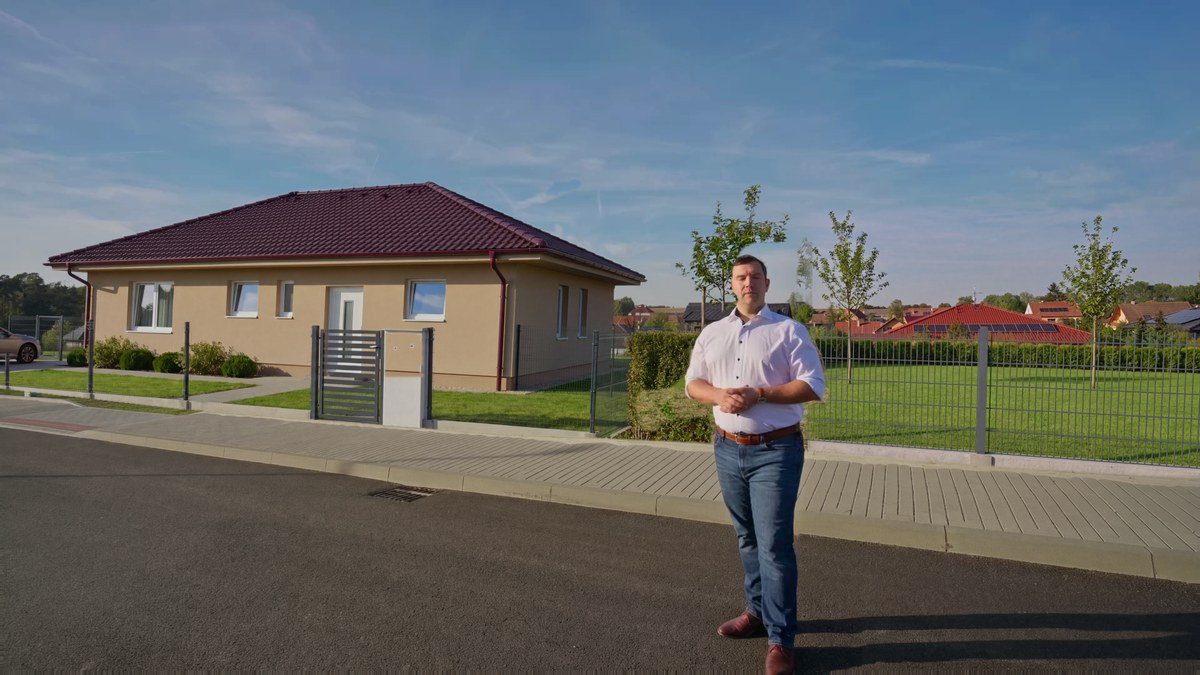
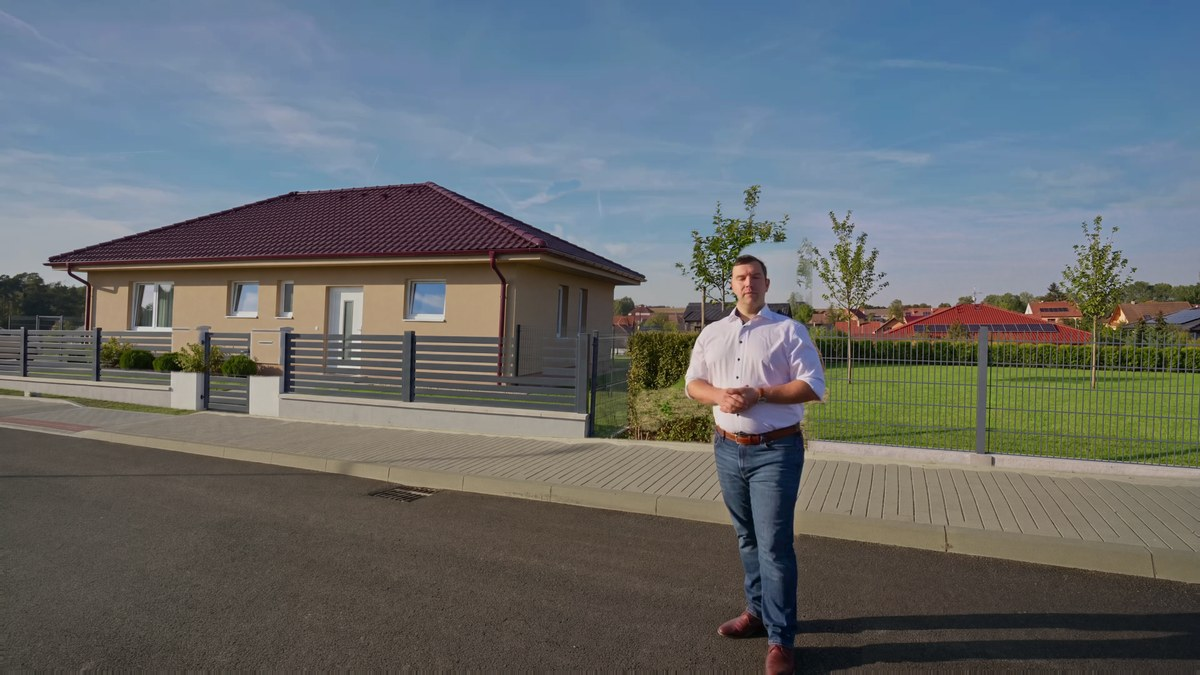
Záběr 61 A: viditelný lamelový plot u chodníku

Changed region(s): [[0.0, 0.4667, 0.5858, 0.6533]]

diff --git a/app.js b/app.js
@@ -6,7 +6,7 @@ const TOPICS = [
     before: 'Výchozí záběr', img: o => `img/z17-${o}` },
   { id: 'z61', title: 'Druhý dům se zahradou', eyebrow: 'ZÁBĚR 61 · VELKÝ DŮM SO01',
     description: 'Velký dům pro kontrast, rovný vjezd ke stání vedle domu, sousední zahrady s ploty. Barevnost: varianta 8 Hřejivá vínová.',
-    options: [{ id: 'A', label: 'Varianta A · plot u chodníku' }, { id: 'B', label: 'Varianta B · předzahrádka, brány v úrovni fasády' }],
+    options: [{ id: 'A', label: 'Varianta A · lamelový plot u chodníku' }, { id: 'B', label: 'Varianta B · předzahrádka, brány v úrovni fasády' }],
     before: 'Výchozí záběr', img: o => `img/z61-${o}` },
   { id: 'v01', title: 'Zahrady · barevnost domů', eyebrow: 'CELKOVÝ POHLED · DOMY 17–22',
     description: 'Domy, které prodáváte, v barevných variantách architekta (bez modré a zelené ve verzích A a B), mírně posunuté cik-cak ±0,5 m. Parcely na pravé straně jako bílá hmota.',
@@ -20,7 +20,7 @@ const el = (tag, cls, text) => { const e = document.createElement(tag); if (cls)
 const state = { opt: {}, before: {}, picks: {}, cards: {} };
 function load() { try { state.picks = JSON.parse(localStorage.getItem(KEY) || '{}') || {}; } catch { state.picks = {}; } }
 function save() { try { localStorage.setItem(KEY, JSON.stringify(state.picks)); } catch { /* bez úložiště stránka funguje dál */ } }
-const src = (t, w) => `${t.img(state.before[t.id] ? 'start' : state.opt[t.id])}-${w}.jpg`;
+const V = "?v=2"; const src = (t, w) => `${t.img(state.before[t.id] ? "start" : state.opt[t.id])}-${w}.jpg${V}`;
 const optLabel = (t, id) => t.options.find(o => o.id === id)?.label || '';
 
 function openLightbox(href, alt) {

diff --git a/index.html b/index.html
@@ -8,7 +8,7 @@
   <title>Vizualizace ke schválení · Nad břehy Dalešic</title>
   <link rel="stylesheet" href="styles.css">
   <link rel="stylesheet" href="final.css">
-  <script src="app.js" defer></script>
+  <script src="app.js?v=2" defer></script>
 </head>
 <body>
   <main class="shell">
